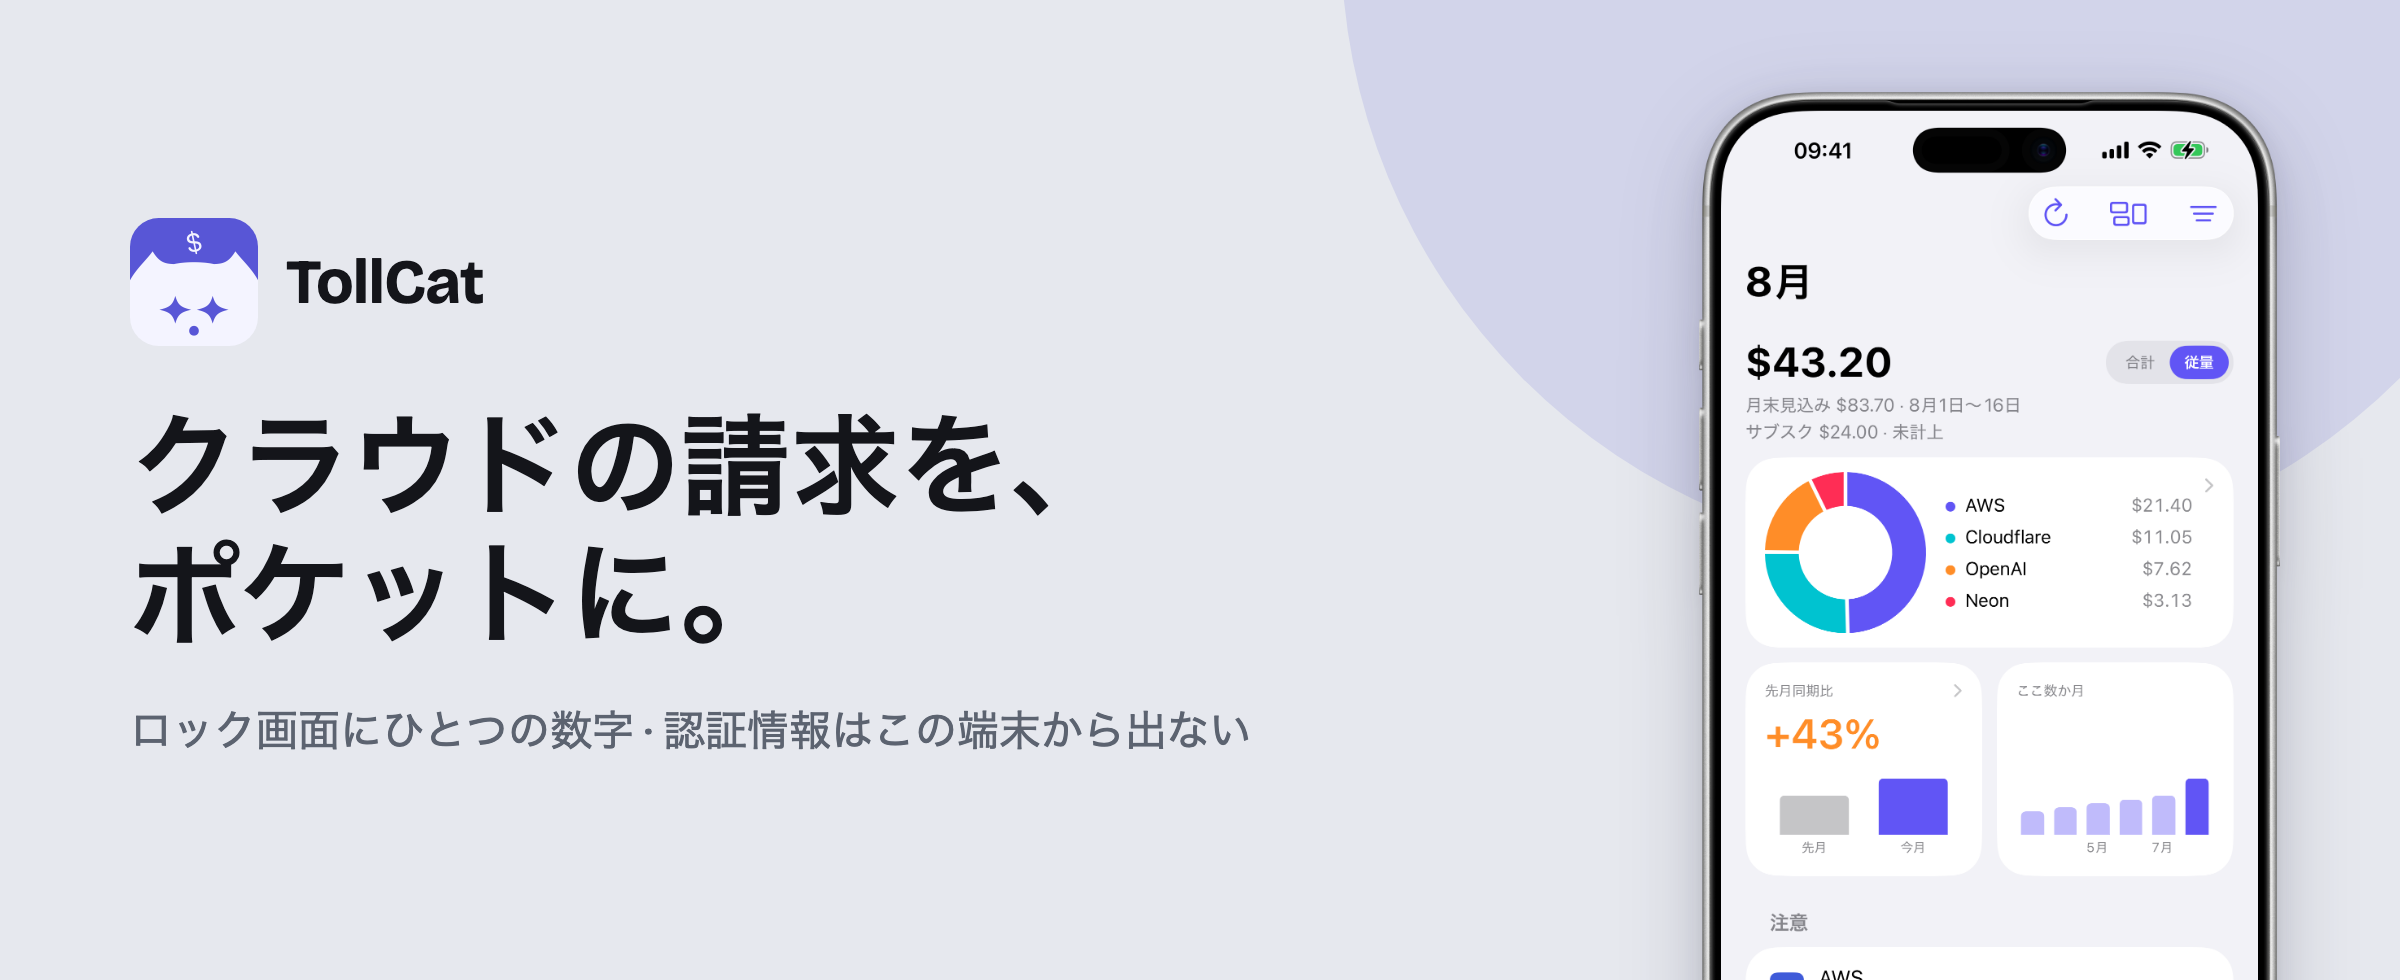
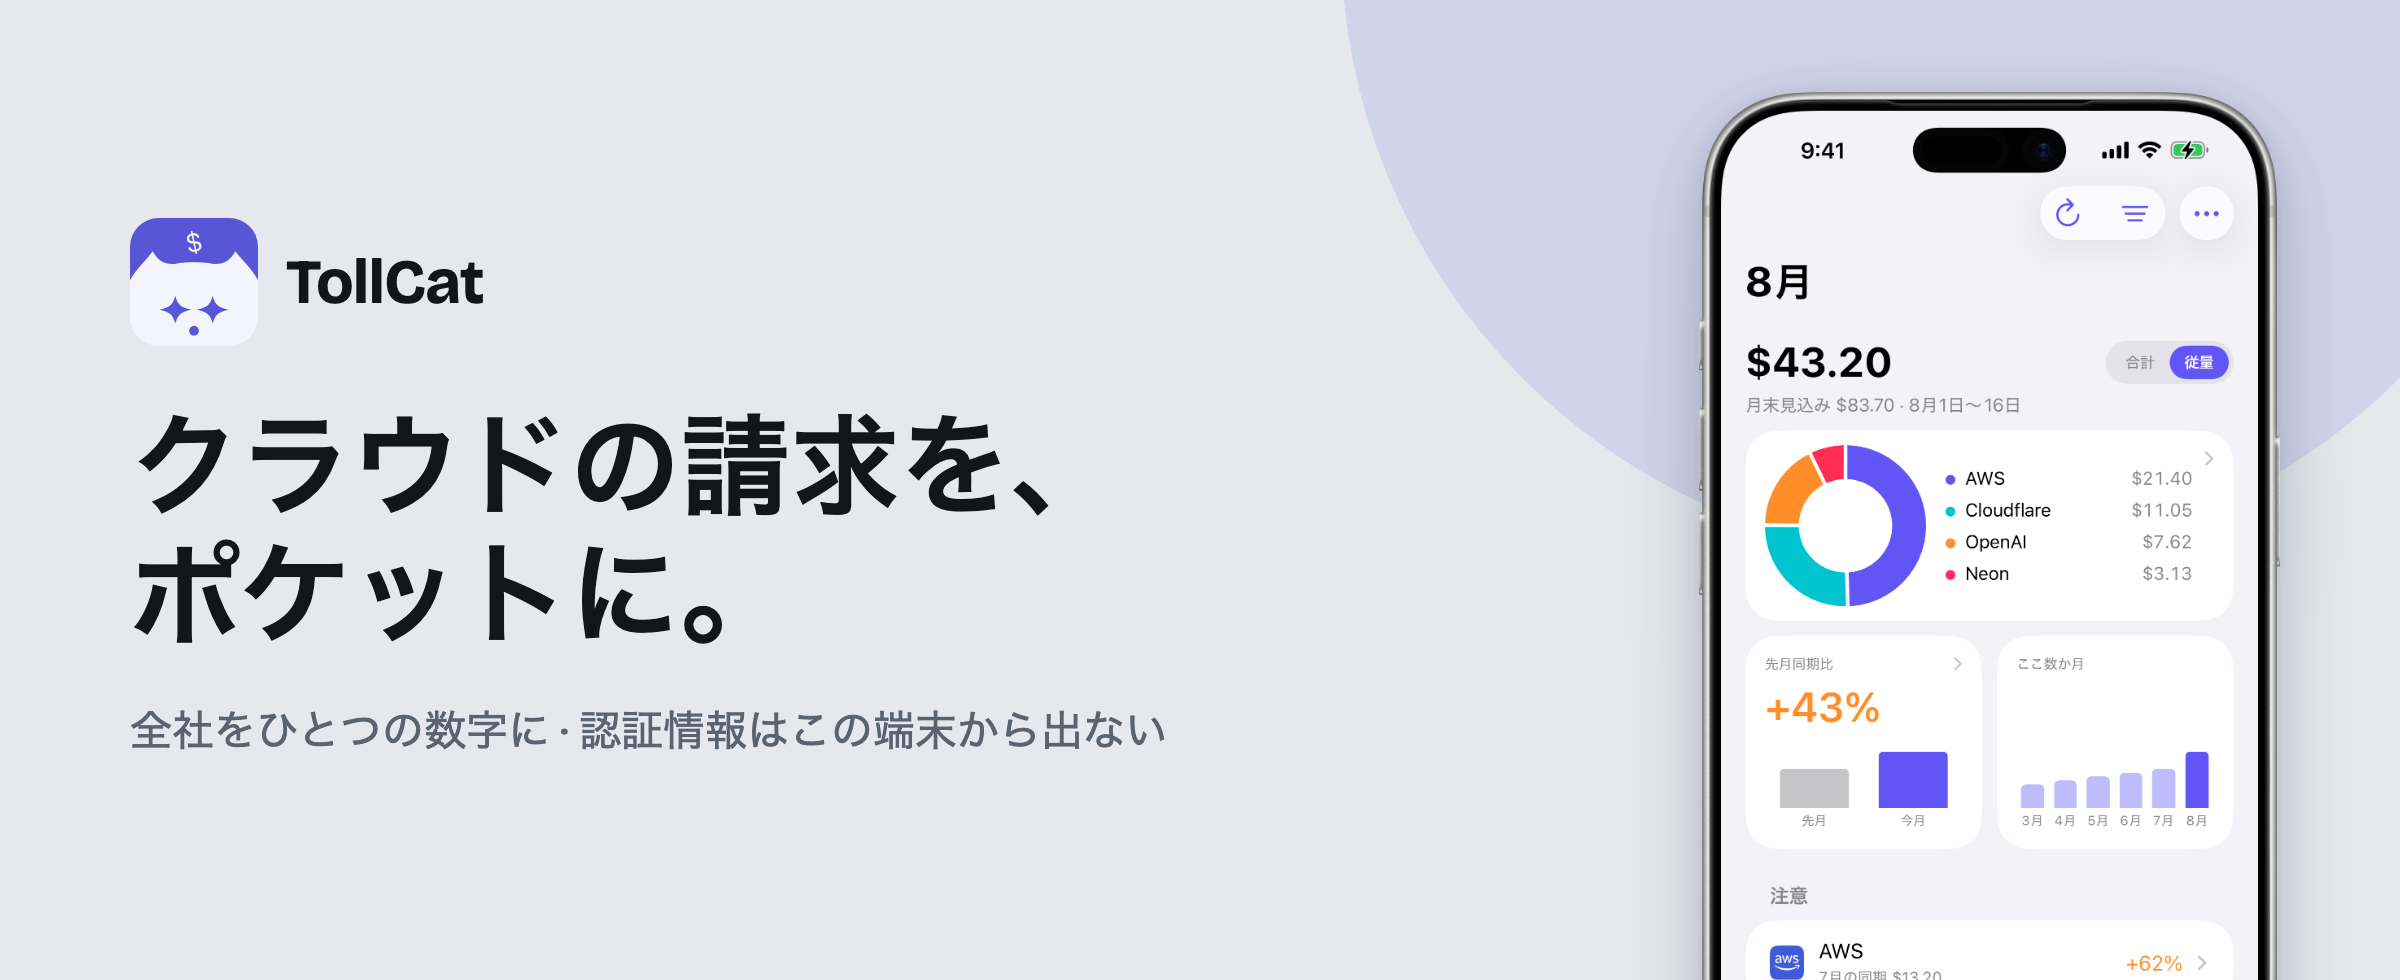
Lead the README with one total, not the Lock Screen; add dark screenshots
The intro, the hero subtitle and the landing page's "what it does" lede
all pitched the widgets first. The point is one total across every
vendor with credentials that never leave the device; the widgets are
where that total can also go. Reworded in all three languages and
re-rendered the six hero/og images.

The README also had a single cropped hero and then jumped into repo
layout. Added a row of three dark iPhone shots (dashboard, services,
setup guide) and the Mac dashboard under it, built by the new
scripts/render-readme-shots.sh from the App Store captures and the
shared bezel list.

diff --git a/site/src/i18n/index.ts b/site/src/i18n/index.ts
@@ -456,7 +456,7 @@ const zh: Copy = {
   },
   facts: {
     title: '它做什么',
-    lede: '账单 App，管你自己在付的那些云和 AI。把各家后台这个月的花费加在一起，总数放在锁屏、主屏幕小组件，以及 Mac 的菜单栏和桌面小组件上。',
+    lede: '账单 App，管你自己在付的那些云和 AI。把各家后台这个月的花费加在一起，给你一个总数，底下是各家的明细。这个数也能放到锁屏、主屏小组件和 Mac 菜单栏上。',
     items: [
       '凭据只写本机 Keychain，不进 iCloud，也不经过 TollCat 的服务器。',
       '只读：不关实例、不改配额、不远程推送。',
@@ -948,7 +948,7 @@ const en: Copy = {
   },
   facts: {
     title: 'What it is',
-    lede: 'A billing app for the cloud and AI services you pay for. It adds up what your backends have spent this month and puts the total on the Lock Screen, the Home Screen widget, and — on Mac — the menu bar and Desktop widgets.',
+    lede: 'A billing app for the cloud and AI services you pay for. It adds up what your backends have spent this month into one total, with the per-vendor breakdown underneath. That total can also sit on the Lock Screen, in a Home Screen widget, or in the Mac menu bar.',
     items: [
       'Credentials stay in on-device Keychain. Not iCloud. Not any TollCat server.',
       'Read-only: it does not shut down instances, change quotas, or send remote push.',
@@ -1441,7 +1441,7 @@ const ja: Copy = {
   },
   facts: {
     title: '何をするか',
-    lede: '自分で払っているクラウドと AI サービスの請求アプリ。各社バックエンドの今月の支出を足し合わせ、その合計をロック画面・ホーム画面のウィジェット、Mac ではメニューバーとデスクトップのウィジェットに置く。',
+    lede: '自分で払っているクラウドと AI サービスの請求アプリ。各社バックエンドの今月の支出を足し合わせて、ひとつの合計に。その下に各社の内訳が並ぶ。合計はロック画面やホーム画面のウィジェット、Mac のメニューバーにも置ける。',
     items: [
       '認証情報は端末の Keychain だけ。iCloud にも TollCat のサーバーにも入らない。',
       '読み取り専用。インスタンスを止めず、クォータを変えず、遠隔プッシュもしない。',

diff --git a/README.ja.md b/README.ja.md
@@ -6,11 +6,29 @@
 
 [English](README.md) · [中文](README.zh.md) · 日本語
 
-TollCat は、自分で払っているクラウドと AI サービスの請求アプリです。各社で今月いくら使ったかを読み取り、アプリを開かなくても見える場所へ置きます。iPhone ではロック画面とホーム画面のウィジェット、Mac ではメニューバーとデスクトップのウィジェットです。認証情報はこの端末の Keychain にだけ保存され、iCloud にもバックアップにも入りません。請求の取得は端末から各社の公式 API へ直接行い、間にサーバーはありません。
+TollCat は、自分で払っているクラウドと AI サービスの請求アプリです。各社で今月使った金額を足し合わせて、ひとつの合計にします。その下に各社の内訳が並びます。認証情報はこの端末の Keychain にだけ保存され、iCloud にもバックアップにも入りません。請求の取得は端末から各社の公式 API へ直接行い、間にサーバーはありません。合計は、ふと目をやる場所にも置けます。iPhone のウィジェットや、Mac のメニューバーです。
 
 SwiftUI、iOS 26+ / macOS 26+、iPhone、iPad、Mac。無料、任意のチップ、MIT ライセンスです。
 
-**実際どんな見た目か知りたいときは。** iPhone・iPad・Mac の各画面とウィジェットは、すべてランディングページに並べてあります。自分に合うかを判断するにはそこが一番早いです：**[tollcat.app](https://tollcat.app/ja/)**。どのサービスの請求を読めるかは**[対応サービス](https://tollcat.app/ja/providers/)**にあります。
+<table>
+  <tr>
+    <td width="33%"><img src=".github/readme/shot-dashboard-ja.png" alt="ダッシュボード：今月の合計、月末の見込み、各社の内訳" width="100%"></td>
+    <td width="33%"><img src=".github/readme/shot-services-ja.png" alt="サービス一覧：追加した各社を、課金方式ごとにまとめて表示" width="100%"></td>
+    <td width="33%"><img src=".github/readme/shot-wizard-ja.png" alt="セットアップガイド：どの読み取り専用権限を付けるか、手順つき" width="100%"></td>
+  </tr>
+  <tr>
+    <td align="center"><sub>ひとつの合計と、その下に各社の内訳</sub></td>
+    <td align="center"><sub>追加した各社を、課金方式ごとに</sub></td>
+    <td align="center"><sub>サービスごとのセットアップガイド：読み取り専用、手順つき</sub></td>
+  </tr>
+</table>
+
+<p align="center">
+  <img src=".github/readme/shot-mac-ja.png" alt="同じダッシュボードを Mac で" width="100%">
+  <br><sub>同じアプリが Mac にも。iPad にも。</sub>
+</p>
+
+**残りの画面は。** iPad、ウィジェット、メニューバーまで、すべてランディングページに並べてあります。自分に合うかを判断するにはそこが一番早いです：**[tollcat.app](https://tollcat.app/ja/)**。どのサービスの請求を読めるかは**[対応サービス](https://tollcat.app/ja/providers/)**にあります。
 
 ## インストールしたものを検証する
 

diff --git a/README.md b/README.md
@@ -6,11 +6,29 @@
 
 English · [中文](README.zh.md) · [日本語](README.ja.md)
 
-TollCat is a billing app for the cloud and AI services you pay for. It reads what you've spent this month across all of them and puts the total where you can see it without opening the app: Lock Screen and Home Screen widgets on iPhone, the menu bar and Desktop widgets on Mac. Credentials stay in the on-device Keychain — never iCloud, never a backup — and the device talks directly to each vendor's official API, with no server in between.
+TollCat is a billing app for the cloud and AI services you pay for. It adds up what you've spent this month across all of them and gives you one total, with the per-vendor breakdown underneath. Credentials stay in the on-device Keychain — never iCloud, never a backup — and the device talks directly to each vendor's official API, with no server in between. The total also goes wherever you'd glance at it: iPhone widgets, the Mac menu bar.
 
 SwiftUI, iOS 26+ and macOS 26+, iPhone, iPad, and Mac. Free, with optional tips. MIT licensed.
 
-**Want to see what it actually looks like?** Every screen, on iPhone, iPad and Mac, plus the widgets, is on the landing page — that's the fastest way to judge whether this is for you: **[tollcat.app](https://tollcat.app)**. Everything it can read a bill from is listed at **[Supported services](https://tollcat.app/providers/)**.
+<table>
+  <tr>
+    <td width="33%"><img src=".github/readme/shot-dashboard-en.png" alt="Dashboard: this month's total, the projection, and the per-vendor breakdown" width="100%"></td>
+    <td width="33%"><img src=".github/readme/shot-services-en.png" alt="Services: every vendor you've added, grouped by how it bills" width="100%"></td>
+    <td width="33%"><img src=".github/readme/shot-wizard-en.png" alt="Setup guide: which read-only permission to grant, step by step" width="100%"></td>
+  </tr>
+  <tr>
+    <td align="center"><sub>One total, with the breakdown underneath</sub></td>
+    <td align="center"><sub>Every service, grouped by how it bills</sub></td>
+    <td align="center"><sub>A setup guide per service: read-only, step by step</sub></td>
+  </tr>
+</table>
+
+<p align="center">
+  <img src=".github/readme/shot-mac-en.png" alt="The same dashboard on Mac" width="100%">
+  <br><sub>The same app on Mac. iPad too.</sub>
+</p>
+
+**Want to see the rest?** iPad, the widgets, the menu bar — every screen is on the landing page, and that's the fastest way to judge whether this is for you: **[tollcat.app](https://tollcat.app)**. Everything it can read a bill from is listed at **[Supported services](https://tollcat.app/providers/)**.
 
 ## Verify what you install
 

diff --git a/README.zh.md b/README.zh.md
@@ -6,11 +6,29 @@
 
 [English](README.md) · 中文 · [日本語](README.ja.md)
 
-TollCat 是账单 App，管你自己在付的那些云和 AI 服务。它读出你这个月在各家花了多少，把总数放在你不必打开也能看见的地方：iPhone 的锁屏和主屏小组件，Mac 的菜单栏和桌面小组件。凭据只存本机 Keychain，不进 iCloud，也不随备份走；取账单由这台设备直连各家官方 API，中间没有任何服务器经手。
+TollCat 是账单 App，管你自己在付的那些云和 AI 服务。它把你这个月在各家花的钱加在一起，给你一个总数，底下是各家的明细。凭据只存本机 Keychain，不进 iCloud，也不随备份走；取账单由这台设备直连各家官方 API，中间没有任何服务器经手。这个总数也可以放到你顺手一瞥的地方：iPhone 的小组件，Mac 的菜单栏。
 
 SwiftUI，iOS 26+ / macOS 26+，iPhone、iPad 和 Mac。免费，可选打赏，MIT 许可。
 
-**想看看实际长什么样？** iPhone、iPad、Mac 的每一屏，加上小组件，都摆在落地页上——要判断这个 App 是不是你要的，看那里最快：**[tollcat.app](https://tollcat.app)**。能读到哪些家的账单，列在**[能接哪些服务](https://tollcat.app/providers/)**。
+<table>
+  <tr>
+    <td width="33%"><img src=".github/readme/shot-dashboard-zh.png" alt="仪表盘：这个月的总数、预计到月底的数，以及各家的明细" width="100%"></td>
+    <td width="33%"><img src=".github/readme/shot-services-zh.png" alt="服务列表：加进来的每一家，按计费方式分组" width="100%"></td>
+    <td width="33%"><img src=".github/readme/shot-wizard-zh.png" alt="接入向导：该开哪个只读权限，一步一步写着" width="100%"></td>
+  </tr>
+  <tr>
+    <td align="center"><sub>一个总数，底下是各家明细</sub></td>
+    <td align="center"><sub>加进来的每一家，按计费方式分组</sub></td>
+    <td align="center"><sub>每家一份接入向导：只读权限，一步一步来</sub></td>
+  </tr>
+</table>
+
+<p align="center">
+  <img src=".github/readme/shot-mac-zh.png" alt="同一个仪表盘，在 Mac 上" width="100%">
+  <br><sub>同一个 App，在 Mac 上。iPad 也有。</sub>
+</p>
+
+**想看剩下的？** iPad、小组件、菜单栏，每一屏都摆在落地页上——要判断这个 App 是不是你要的，看那里最快：**[tollcat.app](https://tollcat.app)**。能读到哪些家的账单，列在**[能接哪些服务](https://tollcat.app/providers/)**。
 
 ## 如何验证
 
